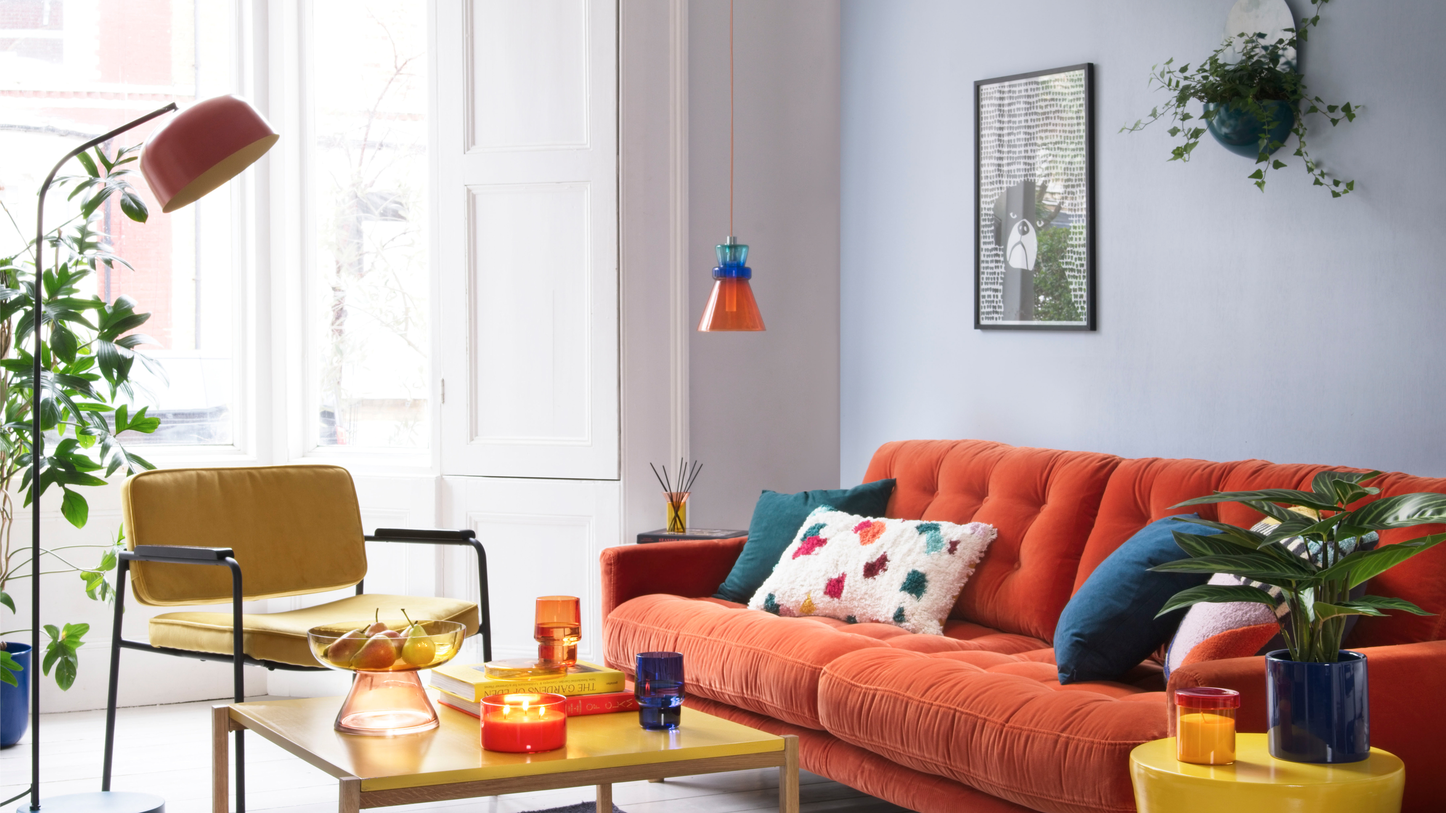
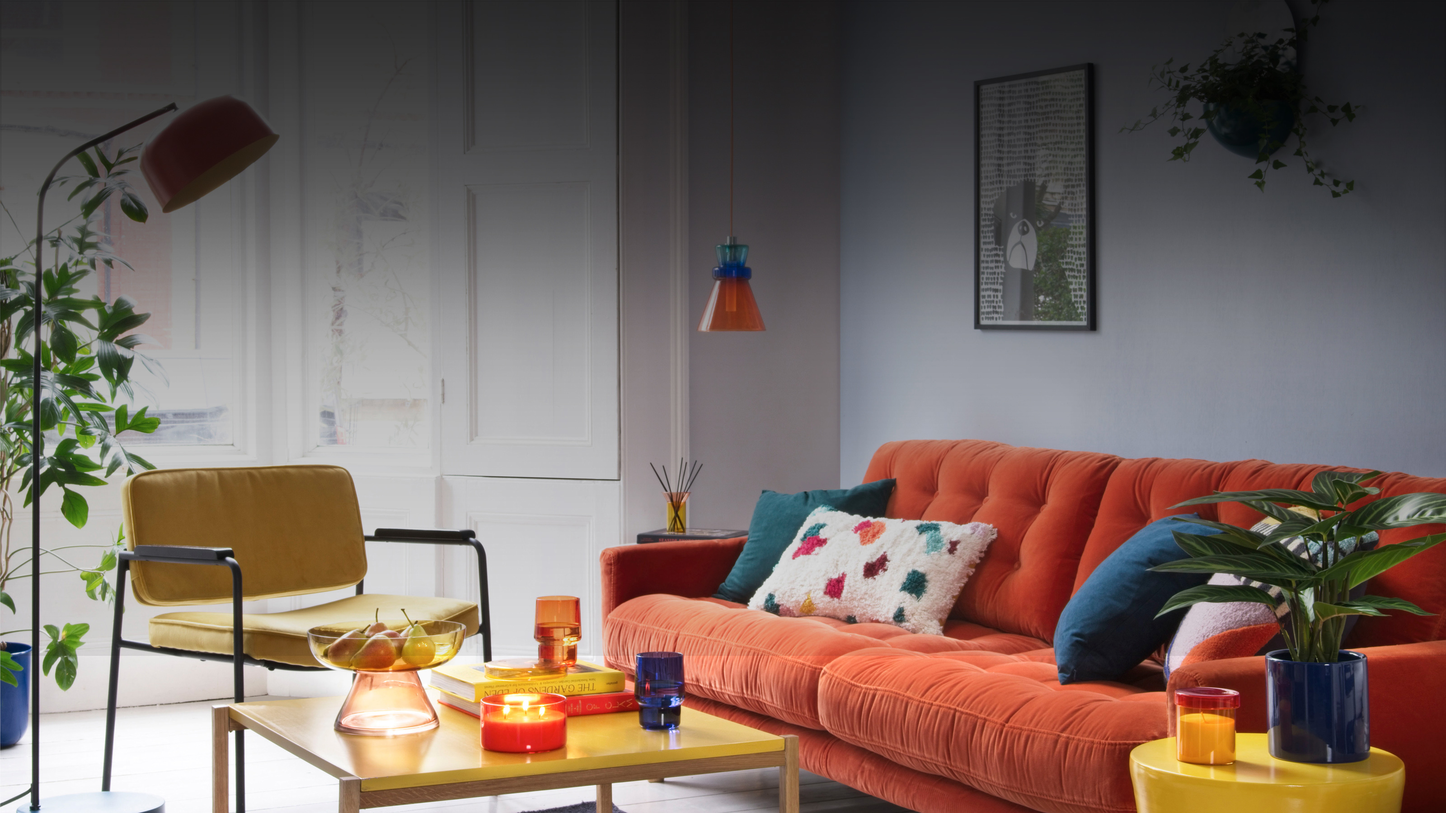
✨ feat: Remove CSS gradient from hero carousel

diff --git a/src/components/HeroCarousel/index.tsx b/src/components/HeroCarousel/index.tsx
@@ -21,29 +21,26 @@ export default function HeroCarousel() {
         className='w-full h-[30vh] sm:h-[40vh] md:h-[720px] mx-auto carousel-arrows'
       >
         <Carousel.Item>
-          <div className='w-full h-[30vh] sm:h-[40vh] md:h-[720px] absolute bg-gradient-to-t from-transparent to-black opacity-50'></div>
+          <div className='w-full h-[30vh] sm:h-[40vh] md:h-[720px] absolute'></div>
           <Image
             src={HeroImage1}
             alt=''
-            placeholder='blur'
             className='w-full h-[30vh] sm:h-[40vh] md:h-[720px] object-cover'
           />
         </Carousel.Item>
         <Carousel.Item>
-          <div className='w-full h-[30vh] sm:h-[40vh] md:h-[720px] absolute bg-gradient-to-t from-transparent to-black opacity-50'></div>
+          <div className='w-full h-[30vh] sm:h-[40vh] md:h-[720px] absolute'></div>
           <Image
             src={HeroImage2}
             alt=''
-            placeholder='blur'
             className='w-full h-[30vh] sm:h-[40vh] md:h-[720px] object-cover'
           />
         </Carousel.Item>
         <Carousel.Item>
-          <div className='w-full h-[30vh] sm:h-[40vh] md:h-[720px] absolute bg-gradient-to-t from-transparent to-black opacity-50'></div>
+          <div className='w-full h-[30vh] sm:h-[40vh] md:h-[720px] absolute'></div>
           <Image
             src={HeroImage3}
             alt=''
-            placeholder='blur'
             className='w-full h-[30vh] sm:h-[40vh] md:h-[720px] object-cover'
           />
         </Carousel.Item>

diff --git a/src/pages/index.tsx b/src/pages/index.tsx
@@ -43,7 +43,6 @@ export default function Home() {
             <Image
               src={Section2Image}
               alt='blue living room accent wall'
-              placeholder='blur'
               className='object-cover h-48 mt-2  sm:h-56 md:h-72 lg:h-80 lg:w-[27rem]'
             />
             <div className='text-center-bug lg:text-left lg:-mt-11'>
@@ -81,7 +80,6 @@ export default function Home() {
             <Image
               src={Section3Image}
               alt='blue living room accent wall'
-              placeholder='blur'
               className='object-cover h-48 mb-2 lg:mb-0 sm:h-56 md:h-72 lg:h-80 lg:w-[27rem] border-4 border-white'
             />
           </div>
@@ -91,7 +89,6 @@ export default function Home() {
             <Image
               src={Section4Image}
               alt='blue living room accent wall'
-              placeholder='blur'
               className='object-cover h-48 mt-2 sm:h-56 md:h-72 lg:h-80 lg:w-[27rem]'
             />
             <div className='text-center-bug lg:text-left'>
